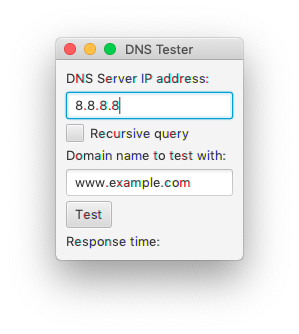
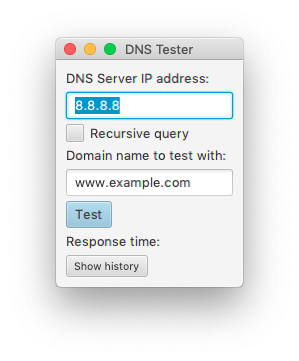
Documenation

Changed region(s): [[0.1806, 0.0898, 0.8127, 0.8084], [0.7525, 0.5389, 0.7826, 0.5988], [0.7826, 0.0898, 0.8127, 0.1198]]

diff --git a/Dokumentaatio/arkkitehtuuri.md b/Dokumentaatio/arkkitehtuuri.md
@@ -8,13 +8,15 @@ Ohjelman rakenne noudattelee kolmitasoista kerrosarkkitehtuuria, ja koodin pakka
 
 Ylin kerros on vain tekninen kuori, jolla saadaan JAR-paketointi toimimaan. Toiminnallisesti kerroksia on kolme.
 
-_ui_ sisältää käyttöliittymän, _domain_ sovelluslogiikan ja tuleva _dao_ testitulosten pysyvän tallennuksen.
+_ui_ sisältää käyttöliittymän, _domain_ sovelluslogiikan ja _dao_ testitulosten pysyvän tallennuksen.
 
 ## Sovelluslogiikka
 
 ### Luokat
 
-Luokkarakenne on hyvin yksinkertainen. TestResult-luokka on vain tietue ilman toiminnallisuutta, joten sen kentät ovat suoraan julkisia eikä niille ole tehty gettereitä ja settereitä.
+Perustestauksen luokka on hyvin yksinkertainen. TestResult-luokka on vain tietue ilman toiminnallisuutta, joten sen kentät ovat suoraan julkisia eikä niille ole tehty gettereitä ja settereitä.
+
+Historia-ikkunaa varten on oma luokkansa, joka hakee suoraan HistoryDAO:lta listan HistoryRow-olioita. JavaFX:n TableView-integraatiota varten HistoryRow:ssa on täydet getterit ja setterit.
 
 ![Luokat](https://github.com/riihikallio/ohte/blob/master/Dokumentaatio/luokat.png)
 
@@ -26,8 +28,8 @@ Kun käyttäjä painaa Test-painiketta suoritetaan testikysely. Itse paketin lä
 
 ### DNS UDP -paketti
 
-Alla on DNS-UDP-kyselypaketin sisältökuvaus. Tässä sovelluksessa vain luodaan yksinkertainen DNS-kysely, ja kellotetaan vastaus. Vastausta ei tulkita sen kummemmin. Kysely-paketin sisällöstä suurin osa on kiinteitä kenttiä, joista esimerkki alinna. Vihreällä taustalla on merkitty tässä sovelluksessa käytetyt kentät. Ensin on yhden bitin Recursion Desired -kenttä (RD), jolla voi pyytää palvelinta selvittämään lopullisen IP-osoitteen asettamalla sen arvoksi 1. Itse haettava nimi tallennetaan QName-kenttään ASCII-tavuina niin, että jokaisen nimen osan edessä on osan pituus (enintään 63 merkkiä) ja lopuksi 0. QName-kentän pituus on siis muuttuva, muut kentät ovat vakiomittaisia.
+Alla on DNS-UDP-kyselypaketin sisältökuvaus. Tässä sovelluksessa vain luodaan yksinkertainen DNS-kysely ja kellotetaan vastaukseen kuluva aika. Vastausta ei tulkita sen kummemmin. Kysely-paketin sisällöstä suurin osa on kiinteitä kenttiä, joista esimerkki alinna. Vihreällä taustalla on merkitty tässä sovelluksessa käytetyt kentät. Ensin on yhden bitin Recursion Desired -kenttä (RD), jolla voi pyytää palvelinta selvittämään lopullisen IP-osoitteen asettamalla sen arvoksi 1. Itse haettava nimi tallennetaan QName-kenttään ASCII-tavuina niin, että jokaisen nimen osan edessä on osan pituus (enintään 63 merkkiä) ja lopuksi 0. QName-kentän pituus on siis muuttuva, muut kentät ovat vakiomittaisia.
 
-Haettavan nimen tallennus poikkeaa Javan Stringin tallennuksesta, joten iso osa DNSTester-luokan sendQuery-metodista käsittelee sitä.
+Haettavan nimen tallennus poikkeaa Javan Stringin tallennuksesta, joten iso osa DNSTester-luokan sendQuery-metodista käsittelee nimen tallennusta. Metodi on hieman pitkä, mutta sen pilkkominen olisi tehnyt koodista monimutkaisemman.
 
 ![Paketti](https://github.com/riihikallio/ohte/blob/master/Dokumentaatio/paketti.png)

diff --git a/Dokumentaatio/ohje.md b/Dokumentaatio/ohje.md
@@ -2,10 +2,18 @@
 
 Syötä testattavan palvelimen nimi tai IP-osoite DNS Server -kenttään.
 
-Jos haluat testata koko nimiselvityksen, niin rastita Recursive query -valinta. Rekursiossa testattava palvelin kysyy tietoa edelleen muilta nimipalvelimilta, joten vasteaika kertoo koko DNS-järjestelmän nopeudesta. Ilman rekursiota saat testattua yhden palvelimen vasteaikaa.
+Jos haluat testata koko nimiselvityksen, niin rastita Recursive query -valinta. Rekursiossa testattava palvelin kysyy tietoa edelleen muilta nimipalvelimilta, joten vasteaika kertoo koko DNS-järjestelmän nopeudesta. Ilman rekursiota saat testattua yhden palvelimen vasteaikaa erikseen.
 
-Domain Name -kenttään syötetään haettava nimi. Nimen pitää olla kelvollinen DNS-nimi, eli ASCII-merkkejä, osat enintään 63 merkkiä pitkiä ja pistein erotettuina. Kokonaispituus ei saa ylittää 494 merkkiä. Muuten sillä ei ole merkitystä.
+Domain Name -kenttään syötetään haettava nimi. Nimen pitää olla kelvollinen DNS-nimi, eli ASCII-merkkejä, osat enintään 63 merkkiä pitkiä ja pistein erotettuina. Kokonaispituus ei saa ylittää 494 merkkiä. Muuten nimellä ei ole merkitystä.
 
 Paina Test-painiketta, niin sen alle tulee vasteaika millisekunneissa.
 
 ![Näyttö](https://github.com/riihikallio/ohte/blob/master/Dokumentaatio/screenshot.png)
+
+## Historia
+
+Painamalla Show History aukeaa palvelimen siihenastinen testihistoria omaan ikkunaansa. Vertailua varten voi avata useita ikkunoita eri palvelimille. Historiaikkunat eivät päivity, vaan ikkuna pitää sulkea ja avata uudelleen, jos tekee lisää testejä.
+
+Punainen rasti tarkoittaa puuttuvaa vastausta. Pukki R-sarakkeessa tarkoittaa rekursiivista kyselyä.
+
+![Historia](https://github.com/riihikallio/ohte/blob/master/Dokumentaatio/historia.png)

diff --git a/Dokumentaatio/vaatimukset.md b/Dokumentaatio/vaatimukset.md
@@ -16,9 +16,14 @@ Vasteajat voivat vaihdella paljonkin riippuen siitä, onko tieto jo haettuna tes
 - Vastauksen tiedot tulevat samaan ikkunaan (Tehty)
 - Aikakatkaisu siltä varalta, että vastausta ei tulekaan (Tehty)
 
-## Jatkokehitys
+## Toteutetut lisätoiminnot
 
 - Valinta rekursiivista kyselyä varten (Tehty)
 - Vastauksen tiedot tallennetaan tietokantaan (Tehty)
-- Saman palvelimen aiemmat tulokset näytetään vertailua varten
+- Saman palvelimen aiemmat tulokset näytetään vertailua varten (Tehty)
+
+## Jatkokehitys
+
 - Jonkinlainen graafinen esitys
+
+Histogrammi toimisi parhaiten ainakin yhden palvelimen esittämiseen. Pitäisi vielä ratkaista, miten kadonneet paketit saisi mukaan histogrammiin. Toinen ratkaistava ongelma on, miten yhdistää rekursiiviset ja ei-rekursiiviset samaan kuvaan vai pitäisikö niistä tehdä eri kuvat.

diff --git a/Dokumentaatio/tunnit.md b/Dokumentaatio/tunnit.md
@@ -15,4 +15,8 @@
 | 28.4. | 3 | DAO-yritystä |
 |  | 2 | JavaDocia ja dokumentaatiota |
 |  | 3 | DAO-tallennus |
-| Yht | 40 | |
+| 5.5. | 3 | DAO-historia |
+| 7.5. | 3 | Historia-ikkuna |
+| 8.5. | 4 | TableView-toimii |
+|  | 2 | Dokumentaatiota |
+| Yht | 52 | |
